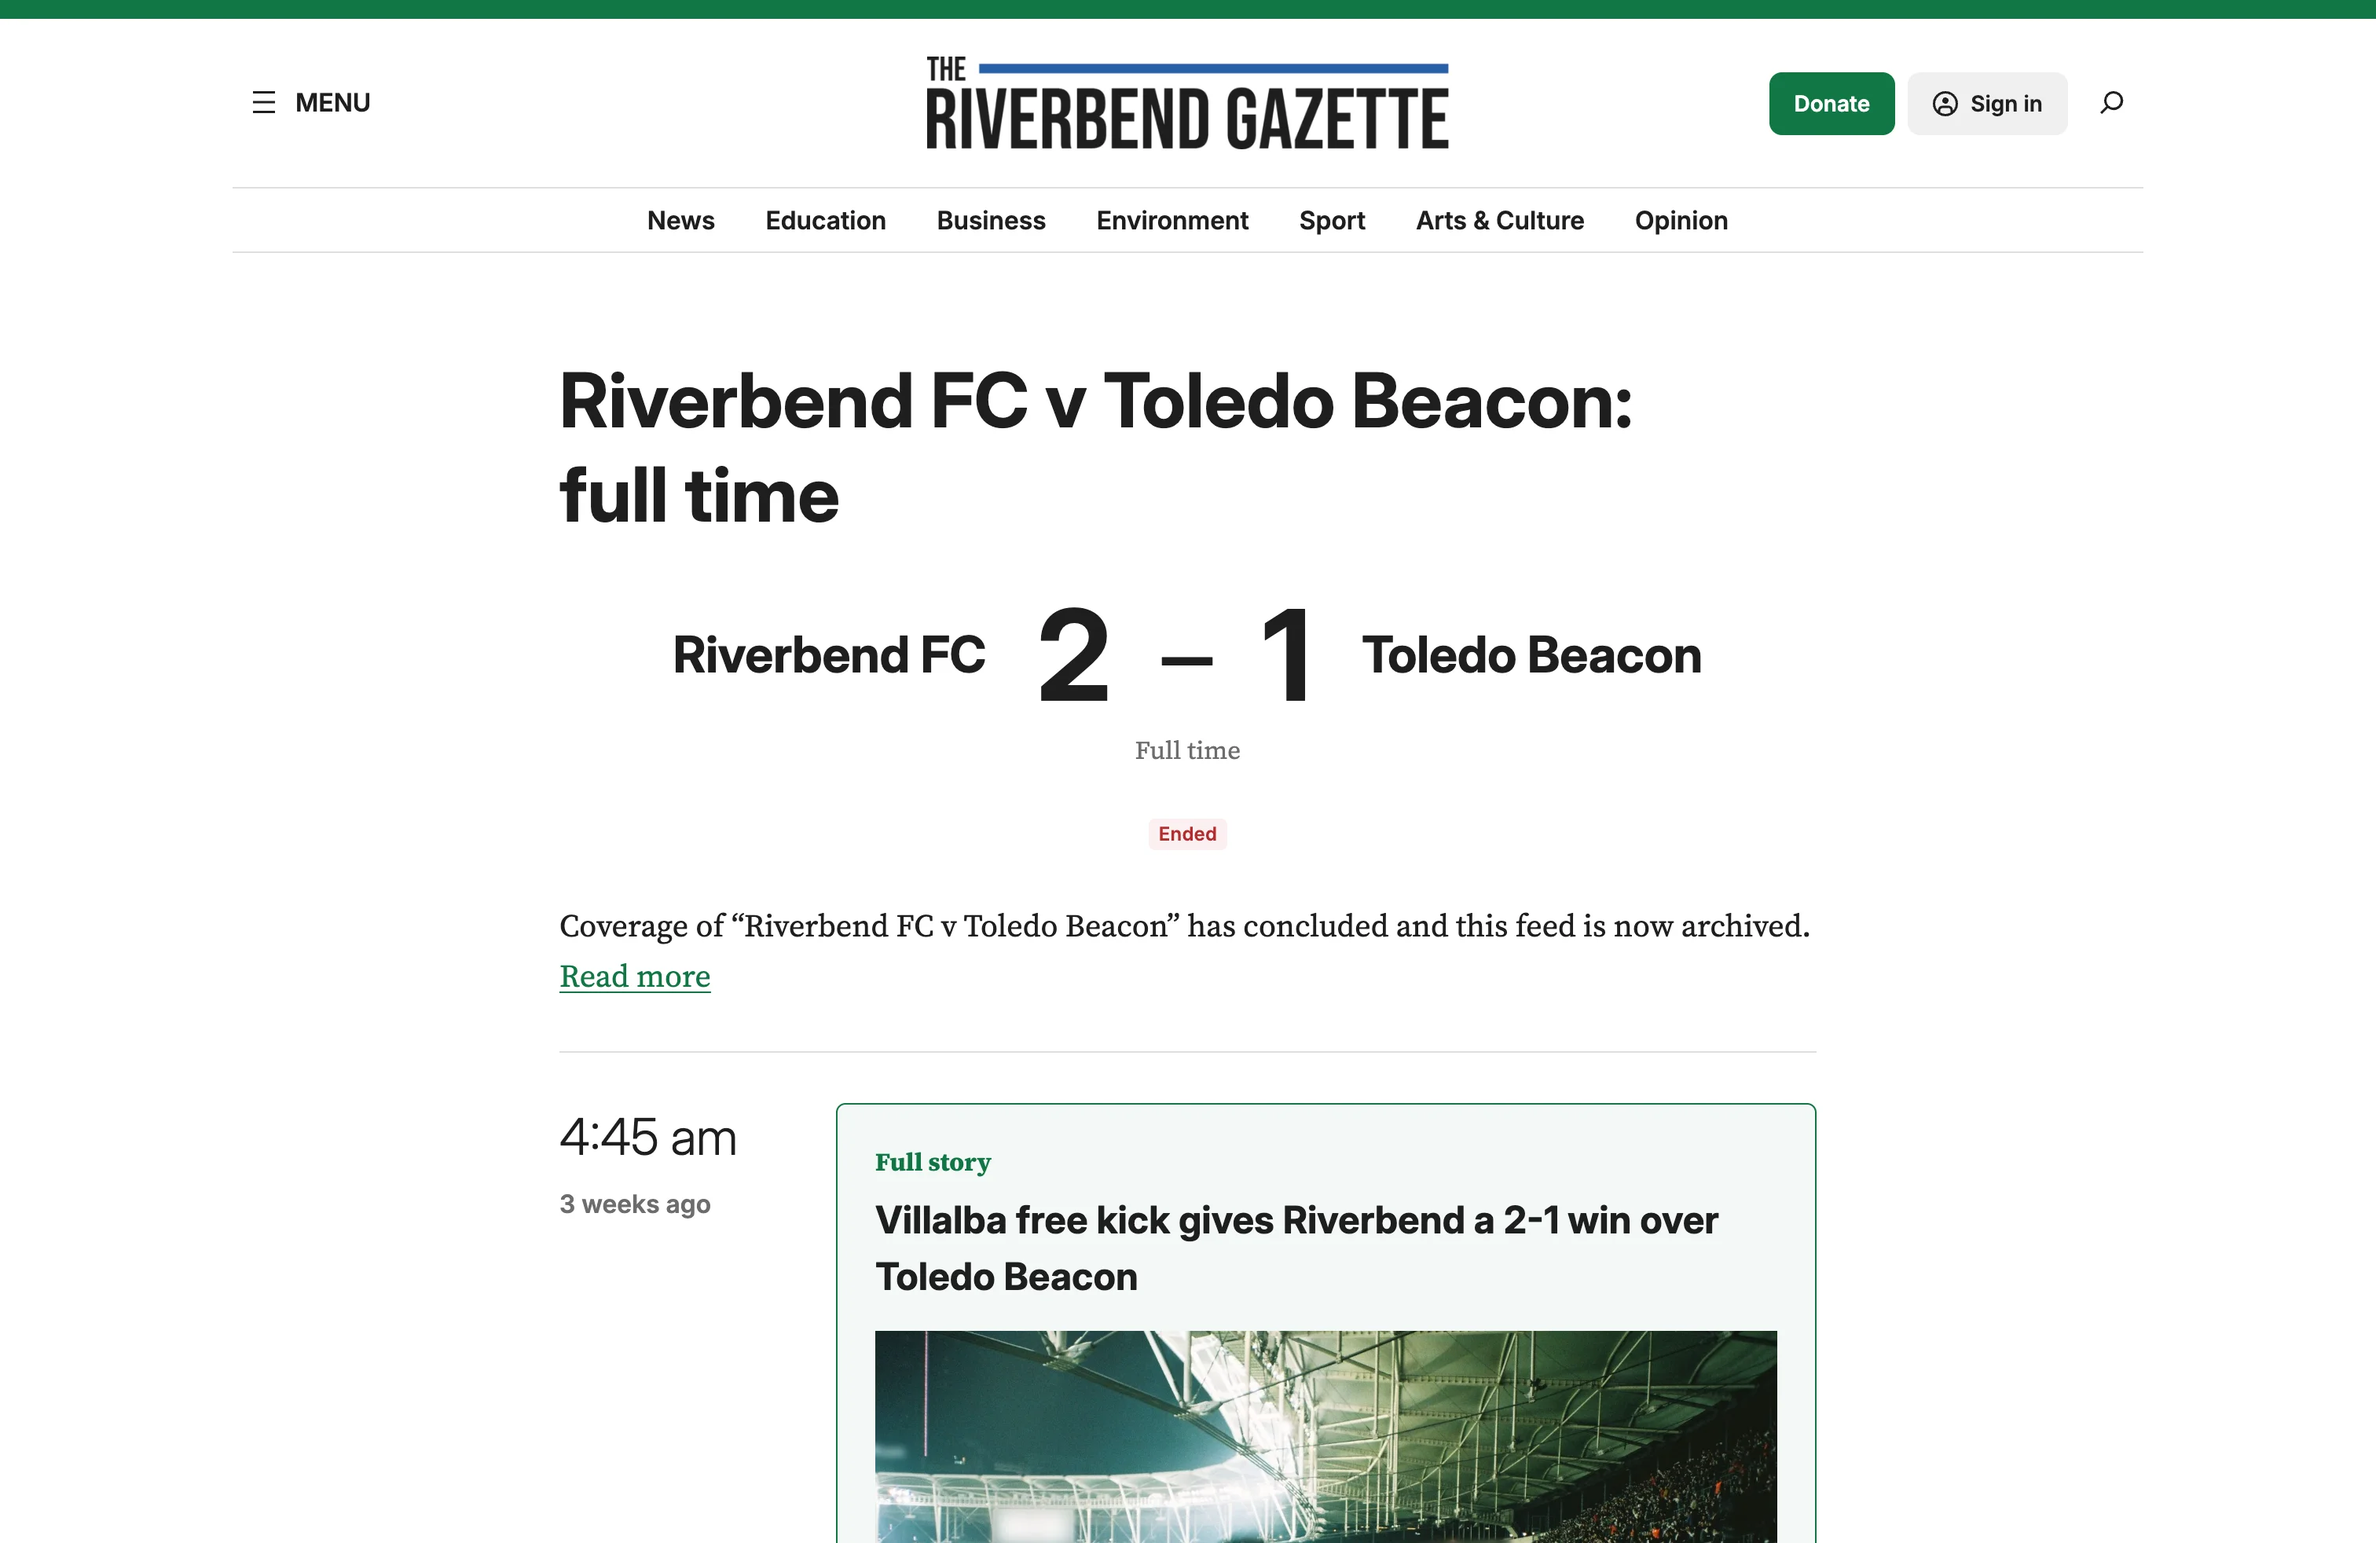
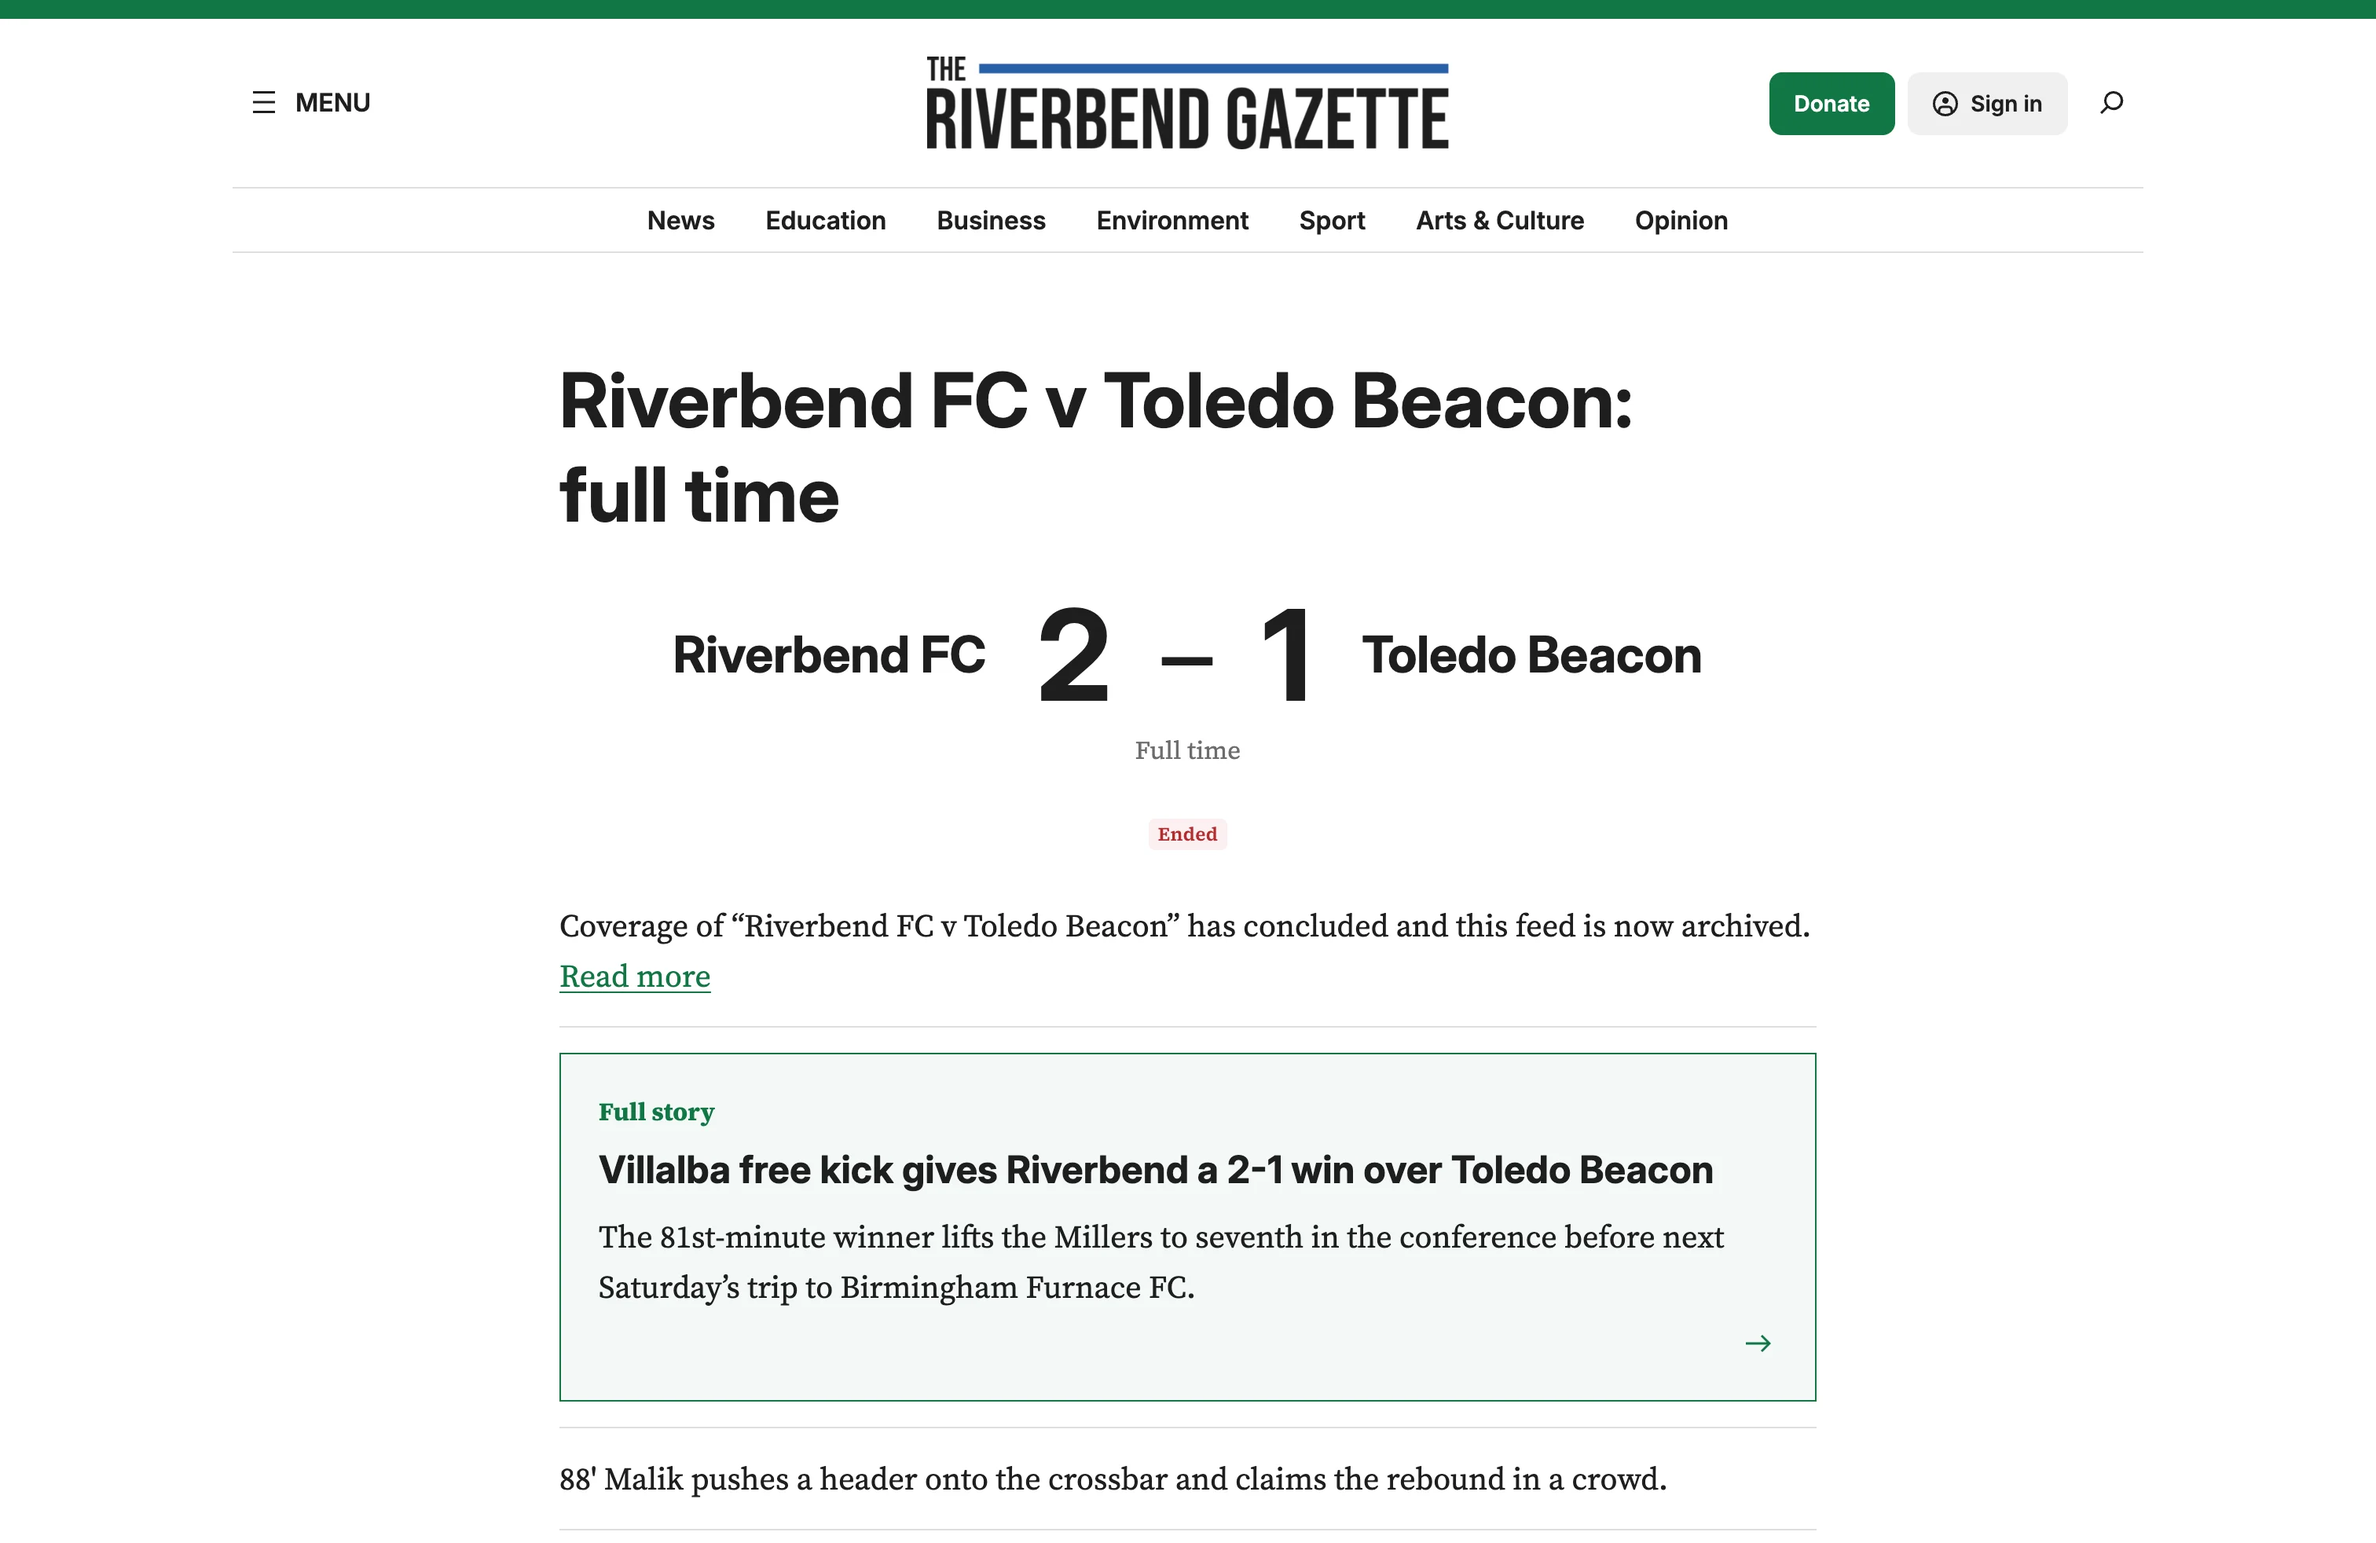
feat(patterns): use the Minute layout in the Match patterns

Changed region(s): [[0.2176, 0.7144, 0.7771, 1.0]]

diff --git a/tests/test-page-patterns.php b/tests/test-page-patterns.php
@@ -335,10 +335,10 @@ class Test_Page_Patterns extends Rolling_Coverage_TestCase {
 	}
 
 	/**
-	 * The Match patterns show the page's score above or beside a Clock feed.
+	 * The Match patterns show the page's score above or beside a Minute feed.
 	 */
-	public function test_match_patterns_show_the_score_and_a_clock_feed() {
-		$clock = serialize_blocks( Layout_Templates::get_blocks( 'clock' ) );
+	public function test_match_patterns_show_the_score_and_a_minute_feed() {
+		$minute = serialize_blocks( Layout_Templates::get_blocks( 'minute' ) );
 
 		foreach ( [ 'match-side', 'match-centered' ] as $slug ) {
 			$blocks      = parse_blocks( self::pattern( $slug )['content'] );
@@ -348,7 +348,7 @@ class Test_Page_Patterns extends Rolling_Coverage_TestCase {
 			$this->assertCount( 1, $scoreboards, $slug );
 			$this->assertArrayNotHasKey( 'coverageId', $scoreboards[0]['attrs'], $slug );
 			$this->assertCount( 1, $feeds, $slug );
-			$this->assertSame( $clock, serialize_blocks( $feeds[0]['innerBlocks'] ), $slug );
+			$this->assertSame( $minute, serialize_blocks( $feeds[0]['innerBlocks'] ), $slug );
 			$this->assertCount( 1, self::find( $blocks, 'newspack-rolling-coverage/coverage-status' ), $slug );
 		}
 	}

diff --git a/includes/class-page-patterns.php b/includes/class-page-patterns.php
@@ -515,13 +515,13 @@ class Page_Patterns {
 			],
 			'match-side'             => [
 				'title'         => __( 'Match: scoreboard beside the feed', 'newspack-rolling-coverage' ),
-				'description'   => __( 'The score and the line-ups in a column beside the Clock layout.', 'newspack-rolling-coverage' ),
+				'description'   => __( 'The score and the line-ups in a column beside the Minute layout.', 'newspack-rolling-coverage' ),
 				'keywords'      => [ 'liveblog', 'match', 'score', 'scoreboard', 'sport', 'line-ups' ],
 				'viewportWidth' => 1200,
 			],
 			'match-centered'         => [
 				'title'         => __( 'Match: centered scoreline', 'newspack-rolling-coverage' ),
-				'description'   => __( 'A large score centered above the status badge and the Clock layout.', 'newspack-rolling-coverage' ),
+				'description'   => __( 'A large score centered above the status badge and the Minute layout.', 'newspack-rolling-coverage' ),
 				'keywords'      => [ 'liveblog', 'match', 'score', 'scoreboard', 'sport', 'centered' ],
 				'viewportWidth' => 1200,
 			],

diff --git a/includes/patterns/match-side.php b/includes/patterns/match-side.php
@@ -65,6 +65,6 @@ echo Page_Patterns::scoreboard(
 <?php echo Page_Patterns::follow(); // phpcs:ignore WordPress.Security.EscapeOutput.OutputNotEscaped -- Block markup from serialize_block(). ?></div>
 <!-- /wp:group -->
 
-<?php echo Page_Patterns::feed( 'clock', [ 'showAvatar' => false ] ); // phpcs:ignore WordPress.Security.EscapeOutput.OutputNotEscaped -- Block markup from serialize_block(). ?></div>
+<?php echo Page_Patterns::feed( 'minute' ); // phpcs:ignore WordPress.Security.EscapeOutput.OutputNotEscaped -- Block markup from serialize_block(). ?></div>
 <!-- /wp:column --></div>
 <!-- /wp:columns -->

diff --git a/includes/patterns/match-centered.php b/includes/patterns/match-centered.php
@@ -32,4 +32,4 @@ echo Page_Patterns::scoreboard(
 
 <!-- wp:newspack-rolling-coverage/coverage-status {"showLastUpdated":true,"layout":{"type":"flex","flexWrap":"wrap","verticalAlignment":"center","justifyContent":"center"}} /-->
 
-<?php echo Page_Patterns::feed( 'clock', [ 'showAvatar' => false ] ); // phpcs:ignore WordPress.Security.EscapeOutput.OutputNotEscaped -- Block markup from serialize_block(). ?>
+<?php echo Page_Patterns::feed( 'minute' ); // phpcs:ignore WordPress.Security.EscapeOutput.OutputNotEscaped -- Block markup from serialize_block(). ?>
